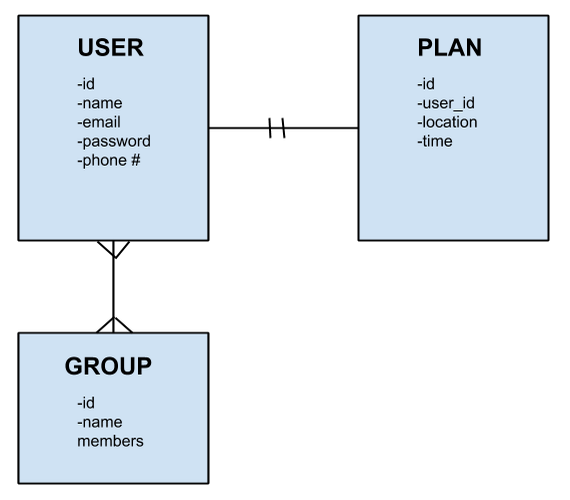
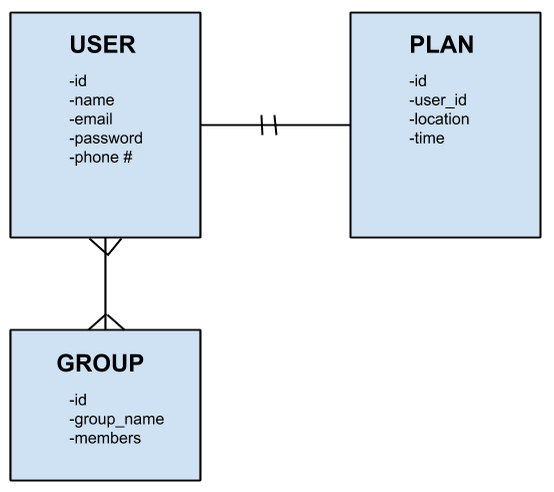
second commit

diff --git a/app.rb b/app.rb
@@ -1,0 +1,27 @@
+#LDL APP
+
+require 'sinatra'
+require 'sinatra/reloader'
+require pry
+
+require_relative #models path 
+require_relative #models path
+
+
+
+
+
+
+
+
+
+
+
+
+
+
+
+
+
+
+binding.pry

diff --git a/models/group.rb b/models/group.rb
@@ -1,0 +1,4 @@
+class Group < ActiveRecord::Base
+	has_many :users
+
+	validates :group_name
